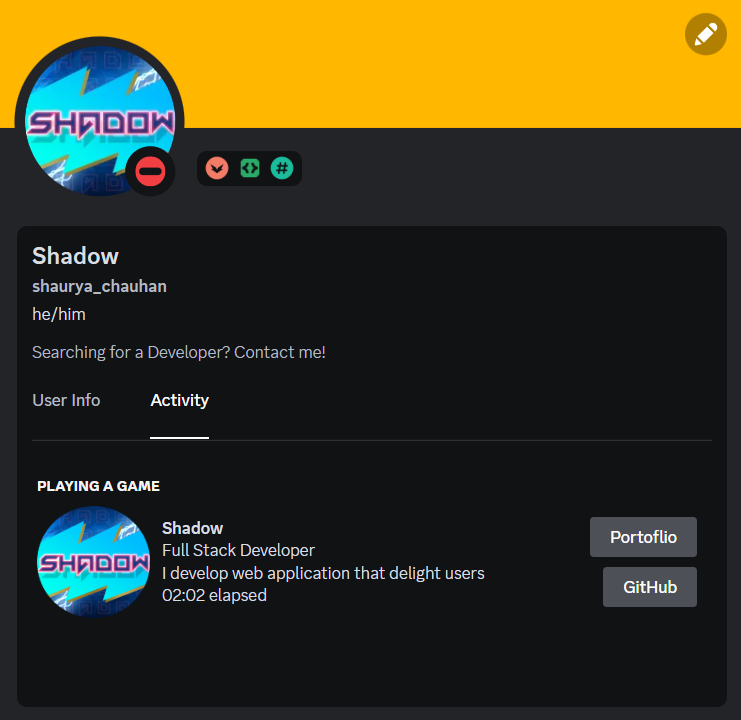
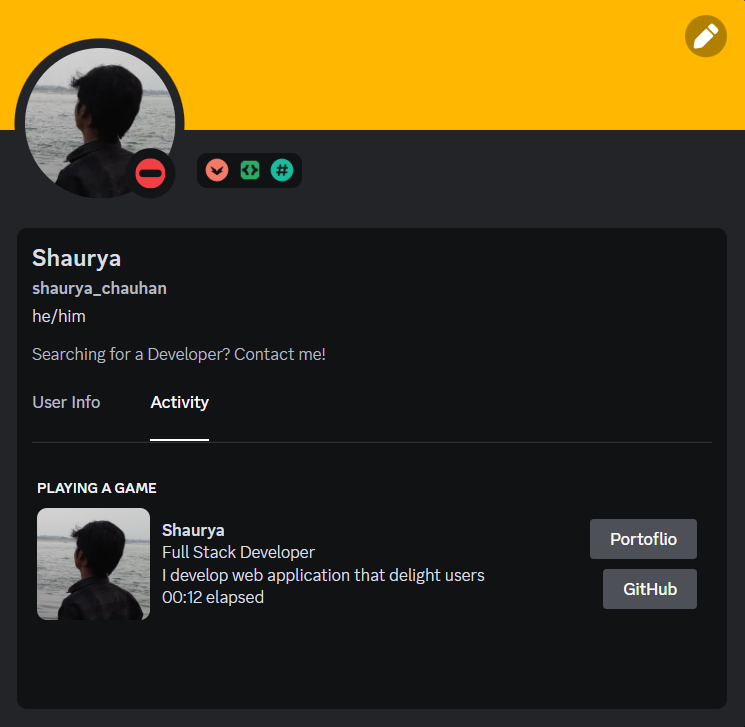
developer information updated

diff --git a/src/config/data.js b/src/config/data.js
@@ -4,8 +4,8 @@ export const data = {
   details: "Full Stack Developer",
   state: "I develop web application that delight users",
   startTimestamp: Date.now(),
-  largeImageKey: "shadow_logo",
-  largeImageText: "Shadow",
+  largeImageKey: "shaurya_avatar",
+  largeImageText: "Shaurya",
   buttons: [
     { label: "Portoflio", url: links.portfolio },
     { label: "GitHub", url: links.gitHub }

diff --git a/src/config/links.js b/src/config/links.js
@@ -1,4 +1,4 @@
 export const links = {
   portfolio: "https://shadowop.dev",
-  gitHub: "https://github.com/shadowop1575"
+  gitHub: "https://github.com/Shaurya9524"
 }

diff --git a/README.md b/README.md
@@ -6,7 +6,7 @@ This project provides a simple and straightforward way to integrate Discord Rich
 
 ## Authors
 
-- **Shaurya Chauhan** - [shadowop1575](https://github.com/shadowop1575)
+- **Shaurya Chauhan** - [Shaurya9524](https://github.com/Shaurya9524)
 
 ## Getting Started
 
@@ -15,7 +15,7 @@ This project provides a simple and straightforward way to integrate Discord Rich
 1. Clone the project repository:
 
 ```bash
-git clone https://github.com/shadowop1575/discord-rpc.git
+git clone https://github.com/Shaurya9524/discord-rpc.git
 ```
 
 2. Install the project dependencies:
